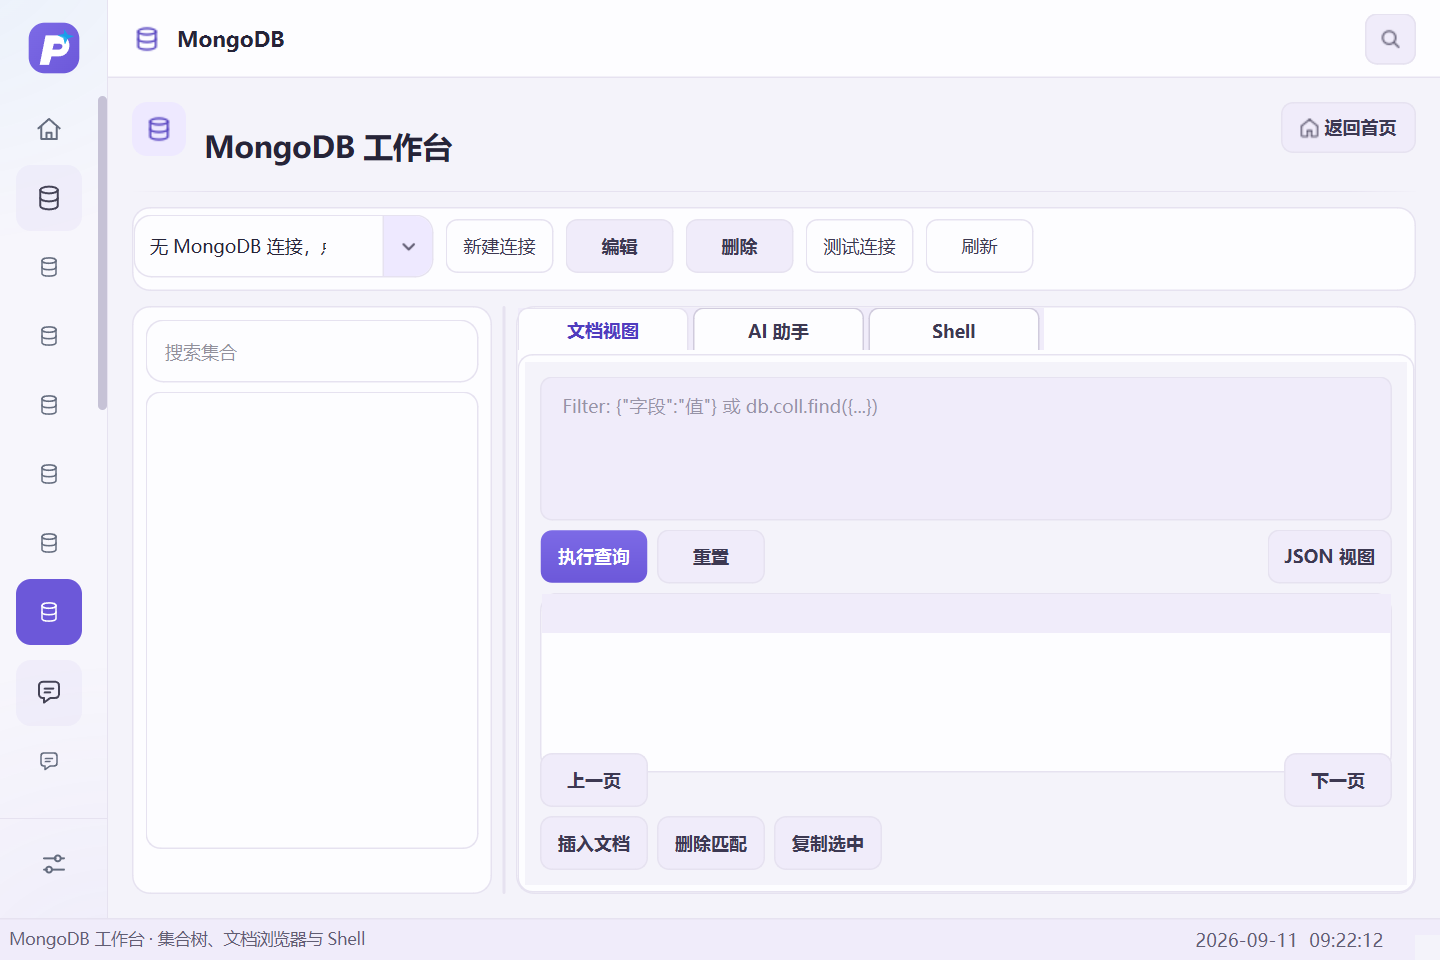
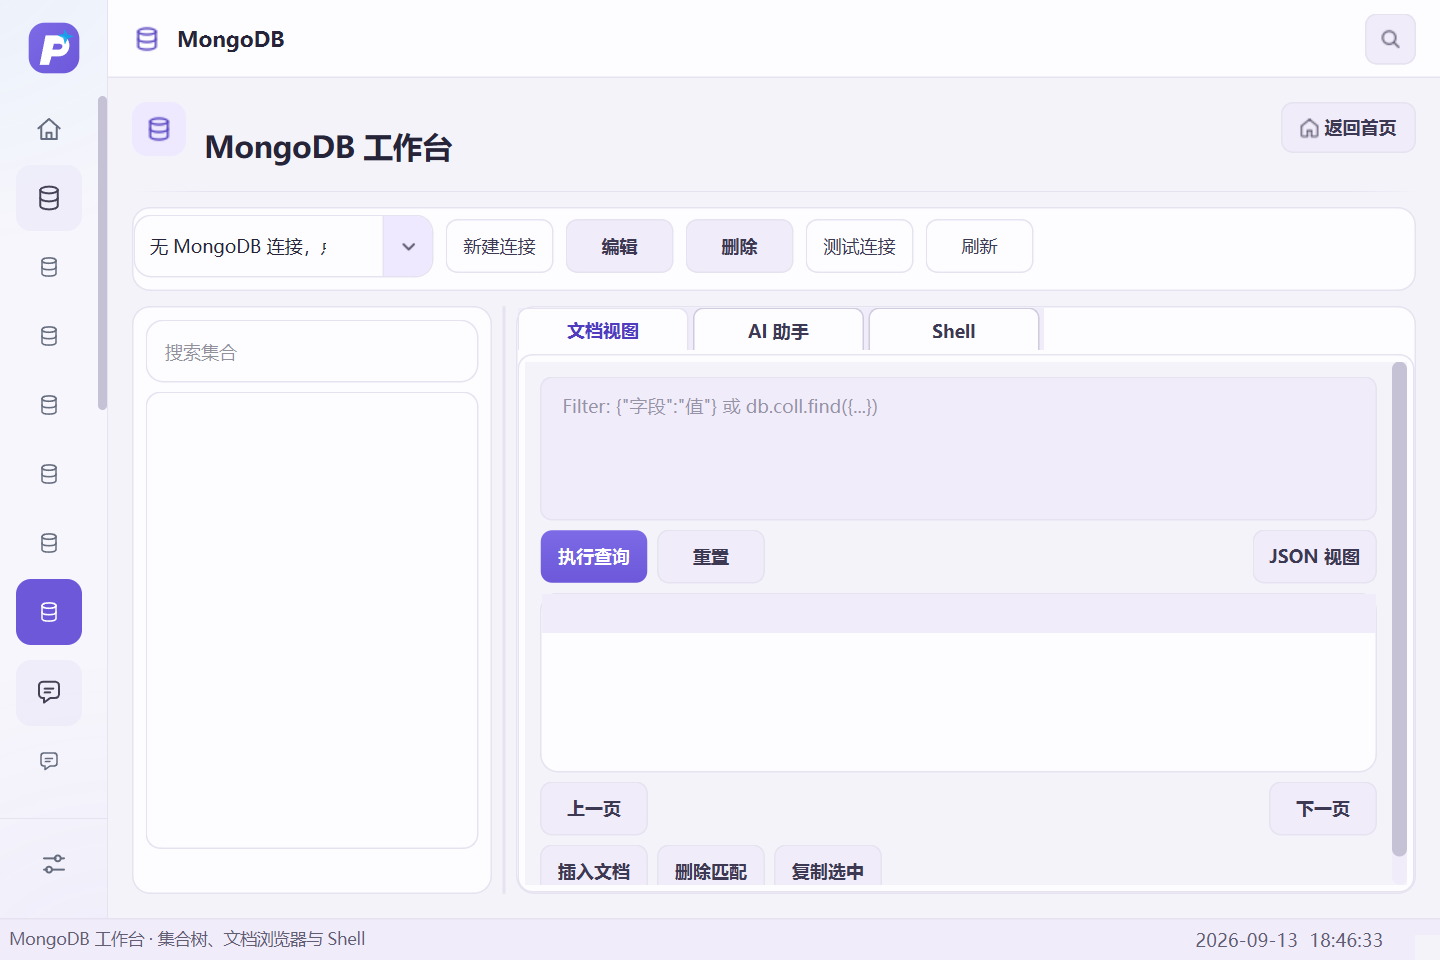
fix(ui): separate MongoDB pagination from compact result views

diff --git a/tests/test_prism_database_layout.py b/tests/test_prism_database_layout.py
@@ -49,6 +49,39 @@ class DatabaseLayoutTests(unittest.TestCase):
                     panel.deleteLater()
                     self.app.processEvents()
 
+    def test_mongo_compact_documents_keep_pagination_below_results(self):
+        from PyQt6.QtCore import QPoint, QRect
+        from panels.db_mongodb_panel import MongoDBWorkbenchPanel
+        with patch.object(MongoDBWorkbenchPanel, '_reload_connections'):
+            panel = MongoDBWorkbenchPanel('zh')
+        try:
+            panel.resize(856, 528)
+            panel.apply_layout_mode('narrow', True)
+            panel.show()
+            panel.query_input.setPlainText('{"preview":true}')
+            panel._render_docs([{'preview': True, 'text': 'DEMO ' * 100}], 1, 50)
+            for _ in range(5):
+                self.app.processEvents()
+            self.assertGreater(panel.prev_btn.y(), panel.doc_table.geometry().bottom())
+            for _ in range(2):
+                panel.view_mode_btn.click()
+                self.app.processEvents()
+                result = panel.doc_json if panel.doc_json.isVisible() else panel.doc_table
+                self.assertGreaterEqual(result.height(), 120)
+                self.assertGreater(panel.prev_btn.y(), result.geometry().bottom())
+                self.assertEqual(panel.query_input.toPlainText(), '{"preview":true}')
+            scroll = panel.side_tabs.widget(0)
+            scroll.ensureWidgetVisible(panel.copy_btn)
+            self.app.processEvents()
+            rect = QRect(panel.copy_btn.mapTo(scroll.viewport(), QPoint()), panel.copy_btn.size())
+            self.assertTrue(scroll.viewport().rect().contains(rect))
+            self.assertIn('DEMO', panel.doc_json.toPlainText())
+            self.assertEqual((panel.width(), panel.height()), (856, 528))
+        finally:
+            panel.close()
+            panel.deleteLater()
+            self.app.processEvents()
+
     def test_redis_low_detail_scroll_keeps_value_actions_and_command(self):
         from PyQt6.QtCore import QPoint, QRect
         from panels.db_redis_panel import RedisWorkbenchPanel

diff --git a/panels/db_mongodb_panel.py b/panels/db_mongodb_panel.py
@@ -11,7 +11,7 @@ import json
 from PyQt6.QtCore import Qt, QThread, pyqtSignal
 from PyQt6.QtWidgets import (
     QComboBox, QDialog, QFrame, QHBoxLayout, QHeaderView, QLabel, QLineEdit,
-    QPlainTextEdit, QPushButton, QSplitter, QTabWidget, QTableWidget, QTableWidgetItem,
+    QPlainTextEdit, QPushButton, QScrollArea, QSplitter, QTabWidget, QTableWidget, QTableWidgetItem,
     QTreeWidget, QTreeWidgetItem, QVBoxLayout, QWidget,
 )
 
@@ -225,6 +225,7 @@ class MongoDBWorkbenchPanel(QWidget):
         self.doc_json = QPlainTextEdit()
         self.doc_json.setObjectName('mongo-doc-edit')
         self.doc_json.setReadOnly(True)
+        self.doc_json.setMinimumHeight(120)
         self.doc_json.hide()
         docs_l.addWidget(self.doc_json, 1)
 
@@ -256,7 +257,11 @@ class MongoDBWorkbenchPanel(QWidget):
             doc_actions.addWidget(w)
         doc_actions.addStretch(1)
         docs_l.addLayout(doc_actions)
-        self.side_tabs.addTab(docs_page, '文档视图')
+        docs_scroll = QScrollArea()
+        docs_scroll.setWidgetResizable(True)
+        docs_scroll.setFrameShape(QFrame.Shape.NoFrame)
+        docs_scroll.setWidget(docs_page)
+        self.side_tabs.addTab(docs_scroll, '文档视图')
 
         # AI 助手
         ai_page = QWidget()

diff --git a/docs/ui/prism-implementation-2026-09/STATUS.md b/docs/ui/prism-implementation-2026-09/STATUS.md
@@ -1,6 +1,14 @@
 # 晴空棱镜代码实施检查点
 
-更新：2026-09-12。这是进行中的实施记录，不是完整验收结论。
+更新：2026-09-13。这是进行中的实施记录，不是完整验收结论。
+
+## 2026-09-13 MongoDB文档页窄窗修复
+
+本批基于 `646becf8749647cd72bed8d5fbec2be5001bf8ab`。检查原960×640实际截图发现分页按钮挤入结果表格底部；隔离回归同时测得JSON视图只有114高。文档页现在使用页签内部滚动，表格与JSON结果都保留至少120高度，分页与文档操作位于结果下方。原查询、重置、视图切换、分页、插入、删除、复制信号及数据逻辑未改，AI与Shell页签不变。
+
+`tests.test_prism_database_layout` 3项通过：新增856×528页面中的表格/JSON真实按钮切换、查询与DEMO内容保留、结果高度、分页无重叠、滚动后复制按钮完整进入视口及窗口尺寸检查。修复前新增用例因JSON高度114不足120失败，修复后通过。`tests.test_nosql_command_guard` 2项通过。通过隔离诊断运行，均退出0，不连接真实数据库。
+
+重新生成并查看 [MongoDB实际窗口](shell/nav-23-960-640.png)，分页与表格已分离，底部操作需要滚动到达；窗口大小与网页侧栏加载/选中记录通过。旧DPR图片为历史版本，不代表本次布局的全DPI验收。其他数据状态、子窗、真实跨屏及性能验证仍未全部完成。原构建信息修改和五份阶段报告继续排除。
 
 ## 2026-09-12 Redis详情滚动与MongoDB Shell复核
 
